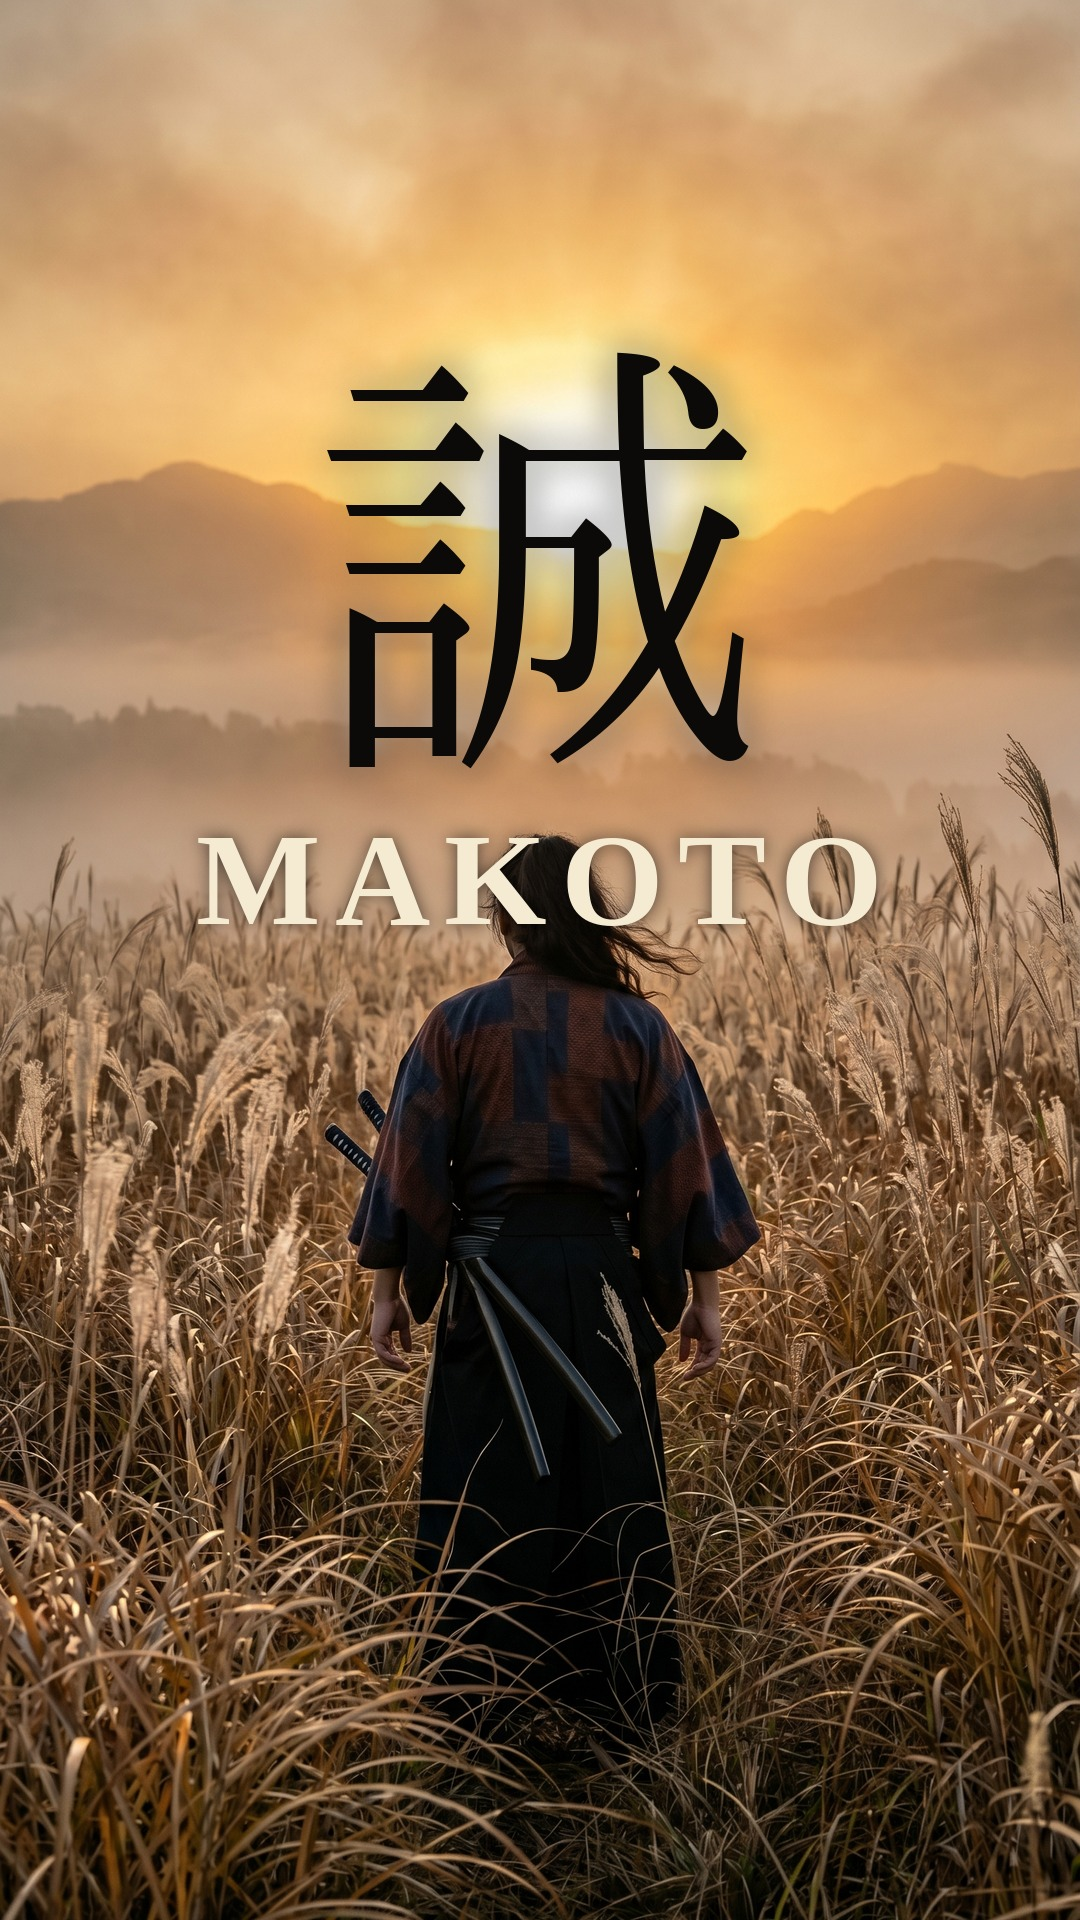
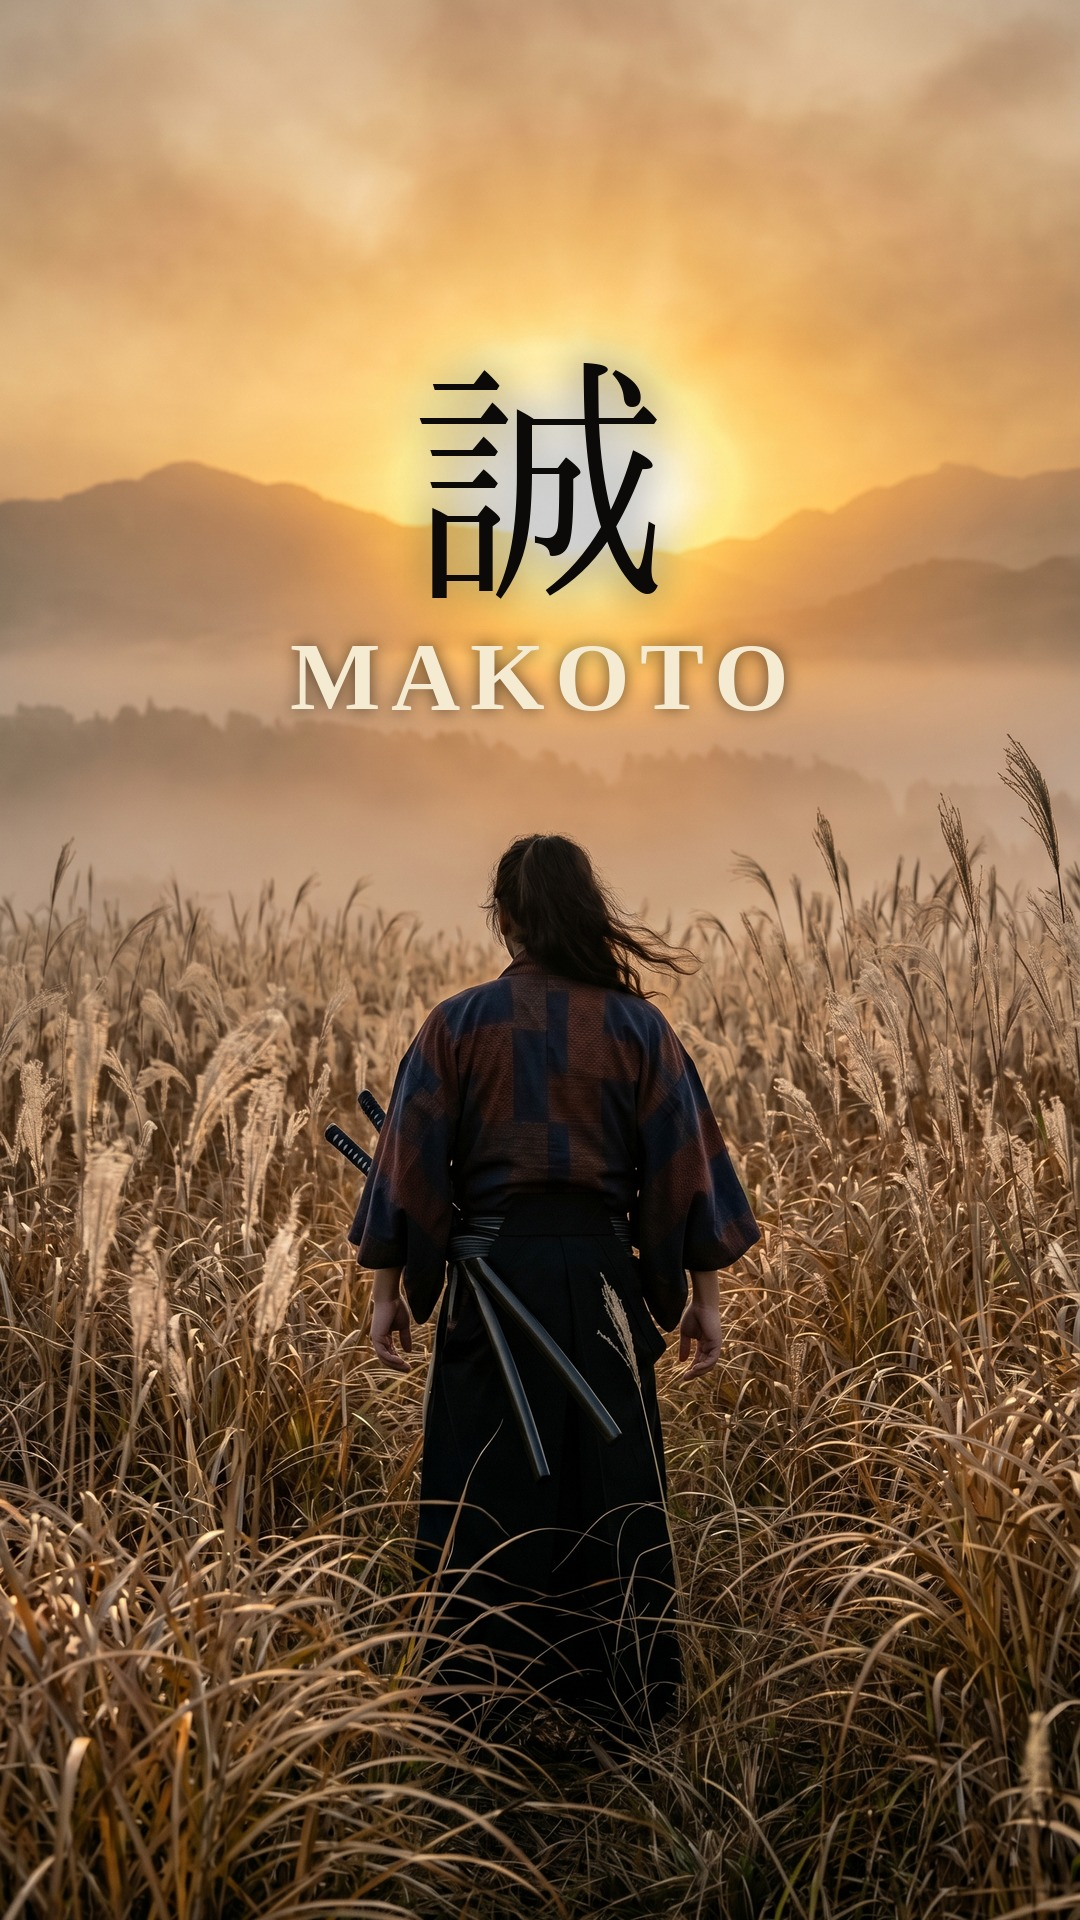
stillwave: shrink MAKOTO Shorts kanji + romaji for cleaner upper-centre placement

Changed region(s): [[0.275, 0.1562, 0.825, 0.5], [0.1833, 0.4062, 0.4889, 0.5]]

diff --git a/stillwave/assets/makoto-compose-shorts-cover.py b/stillwave/assets/makoto-compose-shorts-cover.py
@@ -31,13 +31,13 @@ CREAM      = (245, 234, 210)    # #F5EAD2
 
 # 誠 kanji upper-centre over the sun zone
 KANJI_TEXT = "誠"
-KANJI_SIZE = 460                # big — owns the upper third
-KANJI_Y_CENTER = 560            # vertical centre of kanji block
+KANJI_SIZE = 260                # smaller, sits cleanly over sun
+KANJI_Y_CENTER = 480            # vertical centre of kanji block
 
 # MAKOTO romaji below kanji
 ROMAJI_TEXT           = "MAKOTO"
-ROMAJI_SIZE           = 132
-ROMAJI_LETTER_SPACING = 14
+ROMAJI_SIZE           = 96
+ROMAJI_LETTER_SPACING = 10
 
 
 def load_source() -> Image.Image:
@@ -101,7 +101,7 @@ def main() -> None:
         advances.append((ch, cbb[2] - cbb[0], cbb))
     total_w = sum(w for _, w, _ in advances) + ROMAJI_LETTER_SPACING * (len(advances) - 1)
     rx = (CANVAS[0] - total_w) // 2
-    ry = kanji_bottom + 70
+    ry = kanji_bottom + 48
 
     for ch, w, cbb in advances:
         draw_with_halo(bg, (rx - cbb[0], ry - cbb[1]), ch, romaji_font, CREAM,
